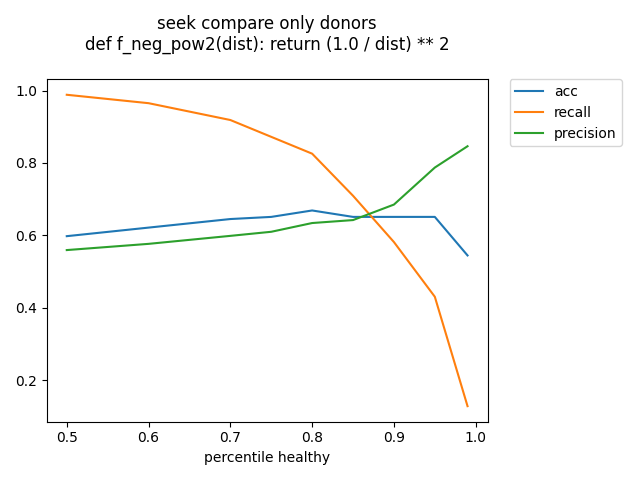
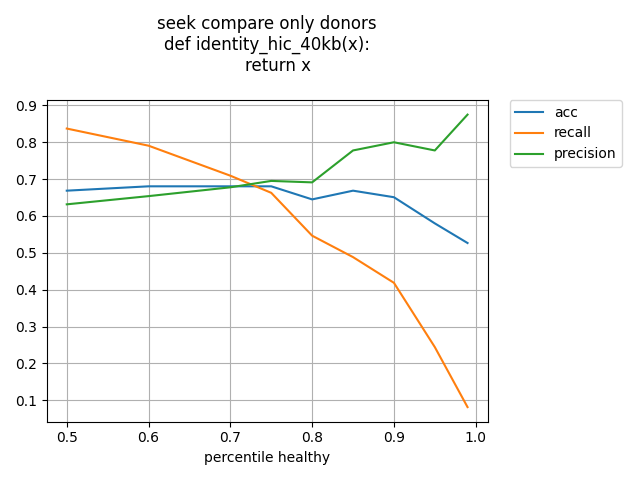
cutoff r + kmeans hist

diff --git a/DonorAnalyzer.py b/DonorAnalyzer.py
@@ -44,7 +44,6 @@ def analyze_donor(donor, cooler, f_id, f_proximity, rep: DonorRepository, hic_pl
     corr_sv_cnt = []
     corr_edges_cnt = []
 
-
     # filtered svs should present in the database
     ALL_DONOR_CHRS = rep.get_donor_chrs_1_21(donor, _table)
     ALL_DONOR_CHRS = list(map(lambda row: row[0], ALL_DONOR_CHRS))
@@ -338,8 +337,9 @@ def hist_patients(f_id, ratio, dens_plot=True, cluster_plot=True, periphery_plot
         if dens_plot:
             plot_distribution(denss, dens_path, code, 'density', 'density', ratio, buckets_cnt, text=text_ratios_map)
         thresholds_paths = f'distribution/thresholds/{f_id}.png'
-        thresholds = plot_mixed_denss(sorted(denss), to_plot=types5plot, save_path=thresholds_paths)
-        THRESHOLD_DENSE = kmeans_plot(sorted(denss))
+        # thresholds = plot_mixed_denss(sorted(denss), to_plot=types5plot, save_path=thresholds_paths)
+        thresholds = []
+        THRESHOLD_DENSE = kmeans_plot(sorted(denss), to_plot=types5plot)
 
         cluster_path = f'distribution/clusters/{f_id}.png'
         if cluster_plot:
@@ -489,19 +489,26 @@ def measure_chromos(chromo_clusters):
 def all_hists(ratio):
     iss = [3, 4]
     # for i in range(1, 4):
-    threshold_hic_dens = 220.50214
     # threshold_hic_dens = 2.7495356
     for i in iss:
-        all_infoids_by_denss, sorted_denss, infoids_after_ratios, thresholds, THRESHOLD_DENSE = hist_patients(i, ratio=ratio,
-                                                                                             dens_plot=True,
-                                                                                             seek_plot=False,
-                                                                                             periphery_plot=False,
-                                                                                             cluster_plot=False,
-                                                                                             cluster_threshold_sz=0,
-                                                                                             dens_threshold=0.00000,
-                                                                                             types5plot=False)
+        all_infoids_by_denss, sorted_denss, infoids_after_ratios, thresholds, THRESHOLD_DENSE = hist_patients(i,
+                                                                                                              ratio=ratio,
+                                                                                                              dens_plot=True,
+                                                                                                              seek_plot=False,
+                                                                                                              periphery_plot=False,
+                                                                                                              cluster_plot=False,
+                                                                                                              cluster_threshold_sz=0,
+                                                                                                              dens_threshold=0.00001,
+                                                                                                              types5plot=True)
+        threshold_hic_dens = 231.75531
+        # threshold_hic_dens = THRESHOLD_DENSE
+        denss_path = f'denssForR/{i}/denssForR{i}.npy'
+        create_path_if_not_exist(denss_path)
+        with open(denss_path, 'wb') as fl:
+            np.save(fl, np.array(sorted_denss))
+
         densss = sorted_denss[int(ratio * len(sorted_denss))]
-        print(densss)
+        # print(densss)
         index_ = find_first_predicate_index(sorted_denss, lambda d: d > threshold_hic_dens)
         print(f'cnt chromo ids: {len(all_infoids_by_denss) - index_}')
 
@@ -689,18 +696,18 @@ def shatter_seek_compare(analyze_donor_chr_pairs, seekLabel):
                 seek_chromo_donors.add(seek_donor)
                 seek_chromo_donor_chr_pairs.add((seek_donor, int(chr_seek)))
 
-                iii = rep.get_info_id(seek_donor, chr_seek, f_id=13)
+                iii = rep.get_info_id(seek_donor, chr_seek, f_id=3)
                 cl_sz = len(rep.get_cluster(iii))
                 cl_szs_seek.append(cl_sz)
 
-        pcawg_donors, pcawg_pairs = rep.get_pcawg()
+        pcawg_donors, pcawg_pairs = rep.get_pcawg(Tables.REAL)
 
         print(f'SHATTER SEEK CHROMO: {len(seek_chromo_donors) / len(seek_donors)}')
         COMMON_DONORS = seek_donors.intersection(pcawg_donors)
         COMMON_DONOR_CHR_PAIRS = list(map(lambda e: (e[0], int(e[1])), seek_chr_pairs.intersection(pcawg_pairs)))
 
         # iss = [11, 12, 1, 2, 3]
-        iss = [11]
+        iss = [3]
         ratios = [0.5, 0.6, 0.7, 0.75, 0.8, 0.85, 0.9, 0.95, 0.99]
         # ratios = [0.75]
         print(f'mode donor chr pairs={analyze_donor_chr_pairs}')
@@ -712,9 +719,14 @@ def shatter_seek_compare(analyze_donor_chr_pairs, seekLabel):
             for ratio in ratios:
                 common_chromo_donor_pairs = []
 
-                sorted_denss, infoids, thresholds = hist_patients(i, ratio=ratio, dens_plot=False, seek_plot=False,
-                                                                  periphery_plot=False,
-                                                                  cluster_plot=False, cluster_threshold_sz=3)
+                infoids_sorted_by_dens, sorted_denss, infoids, thresholds, dens_threshold = hist_patients(i,
+                                                                                                          ratio=ratio,
+                                                                                                          dens_plot=False,
+                                                                                                          seek_plot=False,
+                                                                                                          periphery_plot=False,
+                                                                                                          cluster_plot=False,
+                                                                                                          cluster_threshold_sz=0,
+                                                                                                          dens_threshold=0.00001)
                 chromo_donors = set()
                 chromo_donor_chr_pairs = set()
                 for infoid in infoids:
@@ -1101,26 +1113,26 @@ def cluster_size_test(ratio):
 
 
 def test_cnt_ids():
-    #i13 = 13
-    #i17f = 17
+    # i13 = 13
+    # i17f = 17
     i13 = 11
     i17f = 16
     all_infoids_by_denss13, sorted_denss13, infoids_after_ratios13, thresholds13 = hist_patients(i13, ratio=1,
-                                                                                         dens_plot=True,
-                                                                                         seek_plot=False,
-                                                                                         periphery_plot=False,
-                                                                                         cluster_plot=False,
-                                                                                         cluster_threshold_sz=0,
-                                                                                         dens_threshold=0,
-                                                                                         types5plot=False)
+                                                                                                 dens_plot=True,
+                                                                                                 seek_plot=False,
+                                                                                                 periphery_plot=False,
+                                                                                                 cluster_plot=False,
+                                                                                                 cluster_threshold_sz=0,
+                                                                                                 dens_threshold=0,
+                                                                                                 types5plot=False)
     all_infoids_by_denss17, sorted_denss17, infoids_after_ratios17, thresholds17 = hist_patients(i17f, ratio=1,
-                                                                                         dens_plot=True,
-                                                                                         seek_plot=False,
-                                                                                         periphery_plot=False,
-                                                                                         cluster_plot=False,
-                                                                                         cluster_threshold_sz=0,
-                                                                                         dens_threshold=0,
-                                                                                         types5plot=False)
+                                                                                                 dens_plot=True,
+                                                                                                 seek_plot=False,
+                                                                                                 periphery_plot=False,
+                                                                                                 cluster_plot=False,
+                                                                                                 cluster_threshold_sz=0,
+                                                                                                 dens_threshold=0,
+                                                                                                 types5plot=False)
     with DonorRepository() as rep:
         set13 = set()
         set17f = set()
@@ -1155,10 +1167,11 @@ class Tables(str, Enum):
 def frankenstein_hic_480kb_TEST2(x):
     return x
 
+
 if __name__ == '__main__':
     # main()
-    #test_cnt_ids()
-    all_hists(ratio=0.7)
+    # test_cnt_ids()
+    # all_hists(ratio=0.72)
     # cluster_size_test(ratio=0.71)
 
     # seek_test()
@@ -1167,7 +1180,7 @@ if __name__ == '__main__':
 
     # shatter_seek_compare(analyze_donor_chr_pairs=False, seekLabel=SeekClassification.HIGH)
 
-    # shatter_seek_compare(analyze_donor_chr_pairs=True)
+    # shatter_seek_compare(analyze_donor_chr_pairs=True, seekLabel=SeekClassification.HIGH)
 
     # gmm_seek_5types_compare(analyze_donor_chr_pairs=False, seekLabel=SeekClassification.NO)
     # diff_example_own_seek(11, 0.75)
@@ -1183,11 +1196,11 @@ if __name__ == '__main__':
 
     # find_the_most_diff_seek_pair(11, 0.75)
 
-    #cool = cooler.Cooler('healthy_hics/new_cool_480kb.cool')
-    #cool = cooler.Cooler('healthy_hics/GSM3564252_RWPE1_HiC_40k.normalized.matrix.cool')
-    #hic_oe_analyzer(cool=cool, f=identity_hic_40kb, _table=Tables.REAL, oe=False)
-    #hic_oe_analyzer(cool=cool, f=frankenstein_hic_480kb_TEST2, _table=Tables.SIMULATED, oe=False)
+    # cool = cooler.Cooler('healthy_hics/new_cool_480kb.cool')
+    # cool = cooler.Cooler('healthy_hics/GSM3564252_RWPE1_HiC_40k.normalized.matrix.cool')
+    # hic_oe_analyzer(cool=cool, f=identity_hic_40kb, _table=Tables.REAL, oe=False)
+    # hic_oe_analyzer(cool=cool, f=frankenstein_hic_480kb_TEST2, _table=Tables.SIMULATED, oe=False)
 
-    # corr_test(4)
+    corr_test(3)
 
     # cluster_sustainability_percentile_test()

diff --git a/DenseUtils.py b/DenseUtils.py
@@ -1,6 +1,7 @@
 import errno
 import os
 import statistics
+from math import log10
 
 import matplotlib.pyplot as plt
 import cooler
@@ -9,6 +10,7 @@ import numpy as np
 import inspect
 
 from matplotlib import rcParams
+from scipy.stats import stats
 from sklearn.cluster import KMeans
 from sklearn.mixture import GaussianMixture
 
@@ -108,10 +110,26 @@ def plot_seek_distibution(top_ratio_infos_sorted_by_dens, buckets_cnt, rep: Dono
     plt.show()
 
 
-def kmeans_plot(denss):
-    km = KMeans(n_clusters=2)
+def kmeans_plot(denss, to_plot):
+    #print(stats.kstest(denss, 'expon'))
+    km = KMeans(n_clusters=2, n_init=50)
+    # denss = list(map(lambda x : log10(x), denss))
     km.fit(np.array(denss).reshape(-1, 1))
     index = find_first_predicate_index(km.labels_, lambda x: x == 1)
+    hill1 = denss[:index]
+    hill2 = denss[index:]
+    sz = max(denss) - min(denss)
+    bins_cnt = 100
+    if hill1:
+        sz1 = max(hill1) - min(hill1)
+        bins1 = int(bins_cnt * sz1 / sz)
+    else:
+        bins1 = 1
+    sz2 = max(hill2) - min(hill2)
+    if to_plot:
+        plt.hist(hill1, bins=bins1, color='blue')
+        plt.hist(hill2, bins=int(bins_cnt * sz2 / sz), color='red')
+        plt.show()
     print(f'threshold dense {denss[index]}')
     return denss[index]
 
